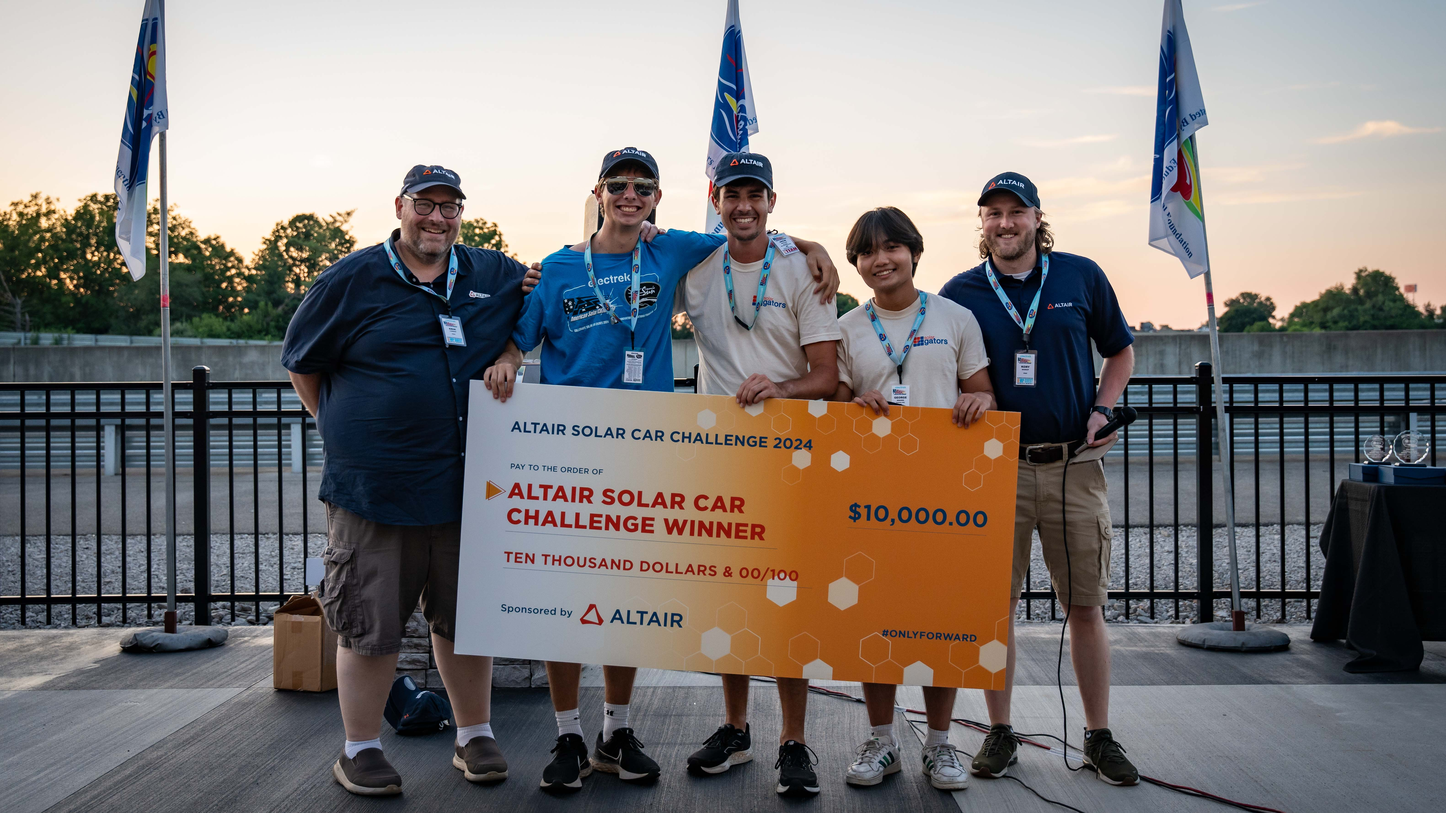
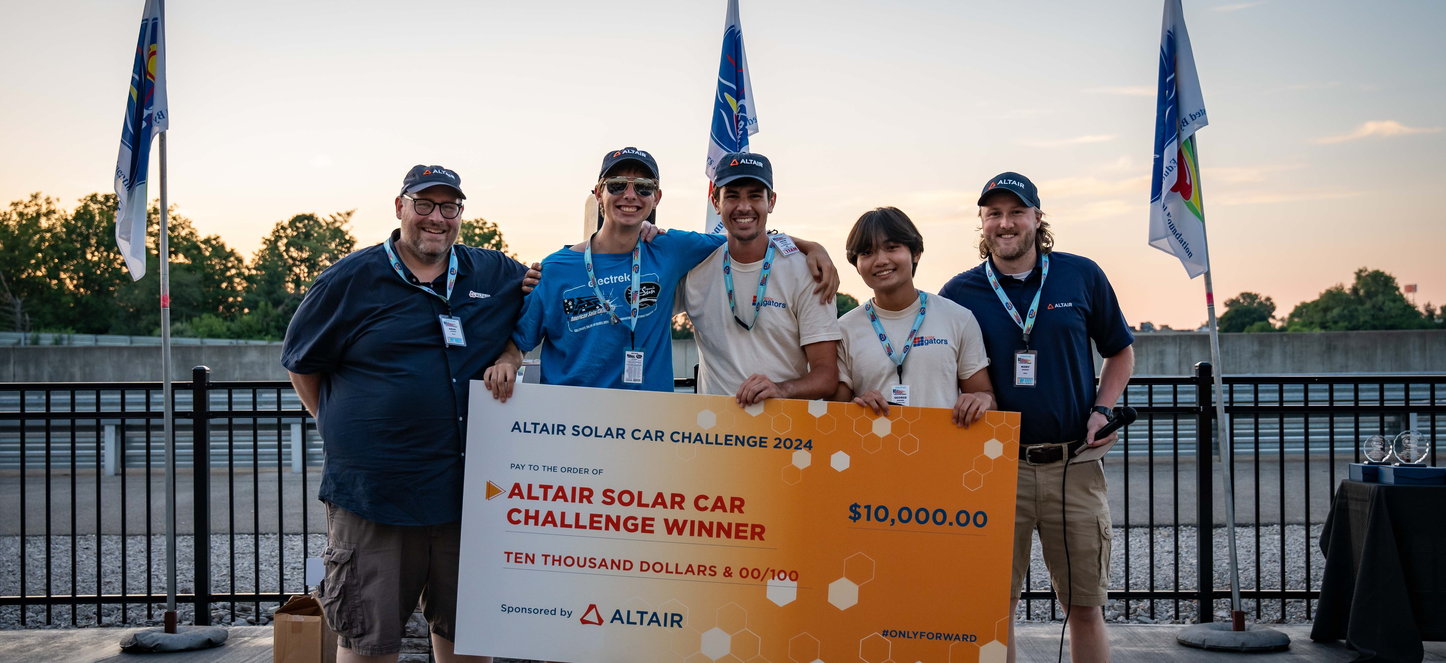
Resized images
Changed object fit so that it doesn't crop the images in mobile version

diff --git a/src/index.css b/src/index.css
@@ -111,7 +111,7 @@
 .award-card-image{
   width: 100%;
   height: 30rem;
-  object-fit: cover;
+  object-fit: contain;
 }
 
 .award-card-content{
